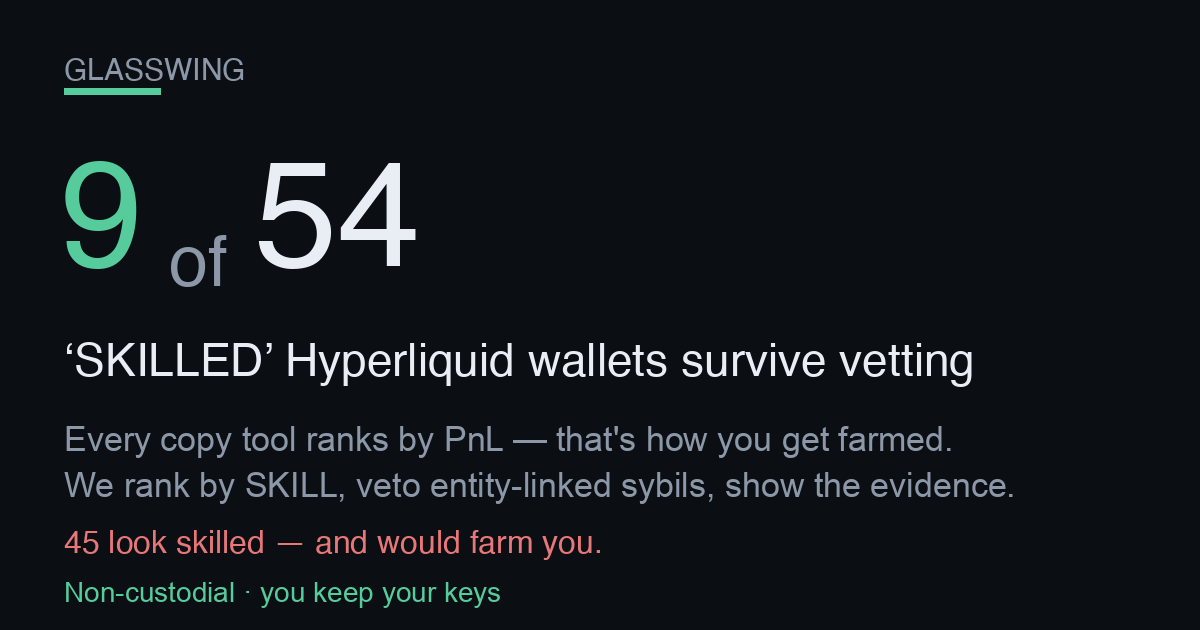
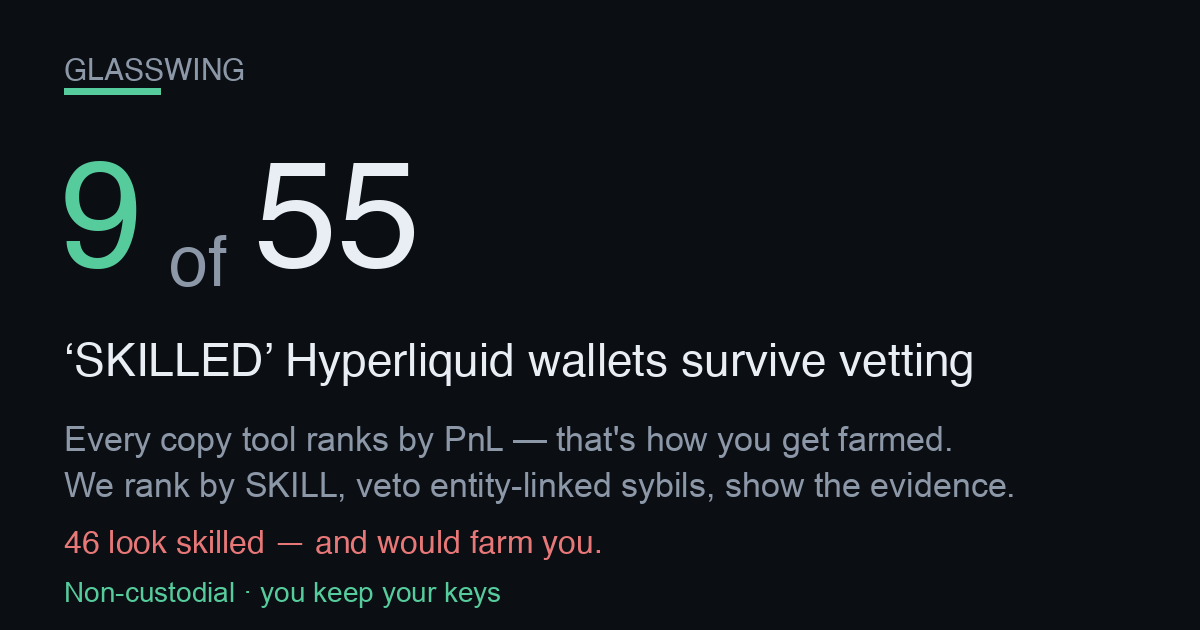
publish funnel 2026-07-24T05:23:07Z

Changed region(s): [[0.2775, 0.2413, 0.37, 0.4222], [0.0617, 0.8444, 0.0925, 0.8746]]

diff --git a/screener.html b/screener.html
@@ -57,4 +57,4 @@ padding:11px 22px;font-size:15px;font-weight:800;border:1px solid var(--good)}
 footer{margin-top:34px;color:var(--muted);font-size:12px;line-height:1.6;
 border-top:1px solid var(--line);padding-top:16px}
 footer b{color:var(--ink)}
-</style></head><body><div class="wrap"><div class="nav"><a href="./index.html">&larr; Glasswing home</a><span class="sep">|</span><span>Edge Screener</span><span class="sep">|</span><a href="./dex.html">Copy a vetted leader</a></div><div class="hero"><h1>Hyperliquid Edge Screener</h1><div class="sub">Where&rsquo;s the carry, where a maker earns, and what&rsquo;s moving on Hyperliquid &mdash; live, computed from the public API. Bookmark it. Every number below is real and timestamped.</div><div class="stamp">Data as of <b>2026-07-23T23:06:38Z</b> &middot; rendered 2026-07-23T23:06:38Z &middot; 177 perps &middot; 88 HIP-3 (xyz) markets scanned</div></div><h2>Top funding &mdash; the carry table <span class="hint">perps ranked by annualized funding. Positive = longs pay shorts (a delta-neutral short earns it).</span></h2><div class="tblwrap"><table><thead><tr><th>Coin</th><th>Funding / hr</th><th>Annualized</th><th>Who pays</th><th>Open interest</th><th>24h volume</th></tr></thead><tbody><tr><td class="coin">CASHCAT</td><td>+0.0264%</td><td class="pos">+231.2%</td><td><span class="tag longs">longs pay</span></td><td>$9.5M</td><td>$14.7M</td></tr><tr><td class="coin">VINE<span class="tag thin" title="Low liquidity/OI &mdash; ADL &amp; liquidation risk; funding can flip">&#9888; thin</span></td><td>+0.0209%</td><td class="pos">+183.4%</td><td><span class="tag longs">longs pay</span></td><td>$347K</td><td>$226K</td></tr><tr><td class="coin">ACE<span class="tag thin" title="Low liquidity/OI &mdash; ADL &amp; liquidation risk; funding can flip">&#9888; thin</span></td><td>-0.0173%</td><td class="neg">-151.4%</td><td><span class="tag shorts">shorts pay</span></td><td>$376K</td><td>$622K</td></tr><tr><td class="coin">NXPC<span class="tag thin" title="Low liquidity/OI &mdash; ADL &amp; liquidation risk; funding can flip">&#9888; thin</span></td><td>-0.0143%</td><td class="neg">-125.7%</td><td><span class="tag shorts">shorts pay</span></td><td>$477K</td><td>$165K</td></tr><tr><td class="coin">AIXBT<span class="tag thin" title="Low liquidity/OI &mdash; ADL &amp; liquidation risk; funding can flip">&#9888; thin</span></td><td>-0.0127%</td><td class="neg">-111.7%</td><td><span class="tag shorts">shorts pay</span></td><td>$434K</td><td>$206K</td></tr><tr><td class="coin">SKR<span class="tag thin" title="Low liquidity/OI &mdash; ADL &amp; liquidation risk; funding can flip">&#9888; thin</span></td><td>-0.0126%</td><td class="neg">-110.6%</td><td><span class="tag shorts">shorts pay</span></td><td>$173K</td><td>$180K</td></tr><tr><td class="coin">kNEIRO<span class="tag thin" title="Low liquidity/OI &mdash; ADL &amp; liquidation risk; funding can flip">&#9888; thin</span></td><td>-0.0105%</td><td class="neg">-92.3%</td><td><span class="tag shorts">shorts pay</span></td><td>$194K</td><td>$121K</td></tr><tr><td class="coin">AVNT<span class="tag thin" title="Low liquidity/OI &mdash; ADL &amp; liquidation risk; funding can flip">&#9888; thin</span></td><td>-0.0097%</td><td class="neg">-84.5%</td><td><span class="tag shorts">shorts pay</span></td><td>$635K</td><td>$186K</td></tr><tr><td class="coin">ZETA<span class="tag thin" title="Low liquidity/OI &mdash; ADL &amp; liquidation risk; funding can flip">&#9888; thin</span></td><td>-0.0094%</td><td class="neg">-82.0%</td><td><span class="tag shorts">shorts pay</span></td><td>$693K</td><td>$137K</td></tr><tr><td class="coin">MORPHO</td><td>-0.0088%</td><td class="neg">-77.3%</td><td><span class="tag shorts">shorts pay</span></td><td>$4.1M</td><td>$1.4M</td></tr><tr><td class="coin">kBONK</td><td>-0.0086%</td><td class="neg">-75.4%</td><td><span class="tag shorts">shorts pay</span></td><td>$6.3M</td><td>$3.2M</td></tr><tr><td class="coin">HEMI</td><td>-0.0082%</td><td class="neg">-71.8%</td><td><span class="tag shorts">shorts pay</span></td><td>$958K</td><td>$662K</td></tr></tbody></table></div><h2>Widest HIP-3 spreads &mdash; where a maker earns <span class="hint">xyz: markets by impact-price spread vs the ~0.6bps round-trip fee. A resting limit order captures the gap.</span></h2><div class="tblwrap"><table><thead><tr><th>Market</th><th>Spread</th><th>vs 0.6bps fee</th><th>Mid</th><th>24h volume</th></tr></thead><tbody><tr><td class="coin">xyz:GIGADEV<span class="tag gm">growth</span></td><td>414.2 bps</td><td class="pos">+413.6 bps</td><td>66.2515</td><td>$82K</td></tr><tr><td class="coin">xyz:BIRD<span class="tag gm">growth</span></td><td>244.6 bps</td><td class="pos">+244.0 bps</td><td>2.6338</td><td>$103K</td></tr><tr><td class="coin">xyz:SOFTBANK<span class="tag gm">growth</span></td><td>148.9 bps</td><td class="pos">+148.3 bps</td><td>35.1450</td><td>$486K</td></tr><tr><td class="coin">xyz:SHAZ<span class="tag gm">growth</span></td><td>130.4 bps</td><td class="pos">+129.8 bps</td><td>69.7830</td><td>$1.2M</td></tr><tr><td class="coin">xyz:KIOXIA<span class="tag gm">growth</span></td><td>76.3 bps</td><td class="pos">+75.7 bps</td><td>383.9950</td><td>$2.8M</td></tr><tr><td class="coin">xyz:MINIMAX<span class="tag gm">growth</span></td><td>63.7 bps</td><td class="pos">+63.1 bps</td><td>24.7310</td><td>$2.1M</td></tr><tr><td class="coin">xyz:URNM<span class="tag gm">growth</span></td><td>60.5 bps</td><td class="pos">+59.9 bps</td><td>51.2760</td><td>$116K</td></tr><tr><td class="coin">xyz:PURRDAT</td><td>45.7 bps</td><td class="pos">+45.1 bps</td><td>6.4643</td><td>$2.7M</td></tr><tr><td class="coin">xyz:CXMT<span class="tag gm">growth</span></td><td>41.5 bps</td><td class="pos">+40.9 bps</td><td>6.3784</td><td>$11.1M</td></tr><tr><td class="coin">xyz:BOT<span class="tag gm">growth</span></td><td>33.1 bps</td><td class="pos">+32.5 bps</td><td>25.8950</td><td>$1.2M</td></tr><tr><td class="coin">xyz:KR200<span class="tag gm">growth</span></td><td>33.1 bps</td><td class="pos">+32.5 bps</td><td>1,110.00</td><td>$494K</td></tr><tr><td class="coin">xyz:HIMS<span class="tag gm">growth</span></td><td>31.4 bps</td><td class="pos">+30.8 bps</td><td>32.9155</td><td>$6.9M</td></tr></tbody></table></div><h2>Momentum &amp; volume &mdash; what&rsquo;s moving <span class="hint">perps by 24h volume with the 24h price change (mark vs prior-day).</span></h2><div class="tblwrap"><table><thead><tr><th>Coin</th><th>24h volume</th><th>24h change</th><th>Mark</th></tr></thead><tbody><tr><td class="coin">BTC</td><td>$1.79B</td><td class="neg">-1.07%</td><td>65,166.00</td></tr><tr><td class="coin">ETH</td><td>$876.2M</td><td class="neg">-2.22%</td><td>1,882.10</td></tr><tr><td class="coin">HYPE</td><td>$270.6M</td><td class="neg">-2.14%</td><td>57.7450</td></tr><tr><td class="coin">SOL</td><td>$99.2M</td><td class="neg">-1.86%</td><td>76.1150</td></tr><tr><td class="coin">ZEC</td><td>$80.4M</td><td class="neg">-1.64%</td><td>502.7600</td></tr><tr><td class="coin">XRP</td><td>$27.9M</td><td class="neg">-2.36%</td><td>1.1100</td></tr><tr><td class="coin">PUMP</td><td>$16.9M</td><td class="neg">-3.73%</td><td>0.001834</td></tr><tr><td class="coin">CASHCAT</td><td>$14.7M</td><td class="neg">-12.73%</td><td>0.04486</td></tr><tr><td class="coin">DOGE</td><td>$13.6M</td><td class="neg">-4.32%</td><td>0.069408</td></tr><tr><td class="coin">WLFI</td><td>$12.0M</td><td class="pos">+2.69%</td><td>0.05764</td></tr><tr><td class="coin">ENA</td><td>$11.9M</td><td class="neg">-1.36%</td><td>0.088987</td></tr><tr><td class="coin">LIT</td><td>$11.6M</td><td class="neg">-5.37%</td><td>2.1620</td></tr></tbody></table></div><div class="cta"><h2>These are the opportunities. Now copy the people who trade them.</h2><p class="lead">Spotting the carry and the spreads is the easy part &mdash; sizing, timing and risk are where most traders bleed. Copy the <b>skill-vetted</b> Hyperliquid leaders who actually trade these edges. Non-custodial: <b>you keep your keys and your funds</b> the entire time.</p><div class="row"><a class="btn" href="./index.html">See the vetted leaders &rarr;</a><a class="btn ghost" href="./dex.html">Start copying (non-custodial) &rarr;</a></div><div class="nc"><b>Non-custodial &amp; honest:</b> we never hold your keys or funds. Copying routes through a <b>0.01%</b> (1bp) on-chain builder fee &mdash; that is the only thing we ever charge, and it is the same fee shown on the copy page. Nothing on this screener is executed for you; it is information only.</div></div><footer><b>Not financial advice.</b> Funding rates, spreads and volumes are live snapshots that change every block; figures can be stale by the time you act. A high funding rate is <b>not free money</b> &mdash; the biggest rates sit on the thinnest, most crowded books (flagged &#9888; thin), where funding can flip against you and auto-deleveraging (ADL) or liquidation can close your position. &ldquo;Spread&rdquo; here is the impact-price spread (a conservative maker signal), not a guaranteed fill. HIP-3 markets are experimental. Do your own research and size responsibly. Glasswing is <b>non-custodial</b> &mdash; we never take custody of your keys or funds.</footer></div></body></html>
+</style></head><body><div class="wrap"><div class="nav"><a href="./index.html">&larr; Glasswing home</a><span class="sep">|</span><span>Edge Screener</span><span class="sep">|</span><a href="./dex.html">Copy a vetted leader</a></div><div class="hero"><h1>Hyperliquid Edge Screener</h1><div class="sub">Where&rsquo;s the carry, where a maker earns, and what&rsquo;s moving on Hyperliquid &mdash; live, computed from the public API. Bookmark it. Every number below is real and timestamped.</div><div class="stamp">Data as of <b>2026-07-24T05:18:20Z</b> &middot; rendered 2026-07-24T05:18:20Z &middot; 177 perps &middot; 88 HIP-3 (xyz) markets scanned</div></div><h2>Top funding &mdash; the carry table <span class="hint">perps ranked by annualized funding. Positive = longs pay shorts (a delta-neutral short earns it).</span></h2><div class="tblwrap"><table><thead><tr><th>Coin</th><th>Funding / hr</th><th>Annualized</th><th>Who pays</th><th>Open interest</th><th>24h volume</th></tr></thead><tbody><tr><td class="coin">STX<span class="tag thin" title="Low liquidity/OI &mdash; ADL &amp; liquidation risk; funding can flip">&#9888; thin</span></td><td>-0.0403%</td><td class="neg">-352.6%</td><td><span class="tag shorts">shorts pay</span></td><td>$388K</td><td>$628K</td></tr><tr><td class="coin">VINE<span class="tag thin" title="Low liquidity/OI &mdash; ADL &amp; liquidation risk; funding can flip">&#9888; thin</span></td><td>+0.0146%</td><td class="pos">+128.3%</td><td><span class="tag longs">longs pay</span></td><td>$400K</td><td>$501K</td></tr><tr><td class="coin">NOT<span class="tag thin" title="Low liquidity/OI &mdash; ADL &amp; liquidation risk; funding can flip">&#9888; thin</span></td><td>-0.0123%</td><td class="neg">-107.5%</td><td><span class="tag shorts">shorts pay</span></td><td>$207K</td><td>$66K</td></tr><tr><td class="coin">RSR<span class="tag thin" title="Low liquidity/OI &mdash; ADL &amp; liquidation risk; funding can flip">&#9888; thin</span></td><td>-0.0120%</td><td class="neg">-104.7%</td><td><span class="tag shorts">shorts pay</span></td><td>$223K</td><td>$3.9M</td></tr><tr><td class="coin">CASHCAT</td><td>+0.0105%</td><td class="pos">+92.2%</td><td><span class="tag longs">longs pay</span></td><td>$11.1M</td><td>$14.7M</td></tr><tr><td class="coin">DASH</td><td>-0.0092%</td><td class="neg">-80.4%</td><td><span class="tag shorts">shorts pay</span></td><td>$771K</td><td>$459K</td></tr><tr><td class="coin">NXPC<span class="tag thin" title="Low liquidity/OI &mdash; ADL &amp; liquidation risk; funding can flip">&#9888; thin</span></td><td>-0.0091%</td><td class="neg">-79.8%</td><td><span class="tag shorts">shorts pay</span></td><td>$459K</td><td>$159K</td></tr><tr><td class="coin">ZRO</td><td>+0.0077%</td><td class="pos">+67.2%</td><td><span class="tag longs">longs pay</span></td><td>$26.5M</td><td>$1.9M</td></tr><tr><td class="coin">kNEIRO<span class="tag thin" title="Low liquidity/OI &mdash; ADL &amp; liquidation risk; funding can flip">&#9888; thin</span></td><td>-0.0076%</td><td class="neg">-66.9%</td><td><span class="tag shorts">shorts pay</span></td><td>$197K</td><td>$144K</td></tr><tr><td class="coin">AVNT<span class="tag thin" title="Low liquidity/OI &mdash; ADL &amp; liquidation risk; funding can flip">&#9888; thin</span></td><td>-0.0072%</td><td class="neg">-62.6%</td><td><span class="tag shorts">shorts pay</span></td><td>$639K</td><td>$186K</td></tr><tr><td class="coin">SAND<span class="tag thin" title="Low liquidity/OI &mdash; ADL &amp; liquidation risk; funding can flip">&#9888; thin</span></td><td>-0.0070%</td><td class="neg">-61.3%</td><td><span class="tag shorts">shorts pay</span></td><td>$285K</td><td>$112K</td></tr><tr><td class="coin">TURBO<span class="tag thin" title="Low liquidity/OI &mdash; ADL &amp; liquidation risk; funding can flip">&#9888; thin</span></td><td>-0.0066%</td><td class="neg">-57.6%</td><td><span class="tag shorts">shorts pay</span></td><td>$227K</td><td>$93K</td></tr></tbody></table></div><h2>Widest HIP-3 spreads &mdash; where a maker earns <span class="hint">xyz: markets by impact-price spread vs the ~0.6bps round-trip fee. A resting limit order captures the gap.</span></h2><div class="tblwrap"><table><thead><tr><th>Market</th><th>Spread</th><th>vs 0.6bps fee</th><th>Mid</th><th>24h volume</th></tr></thead><tbody><tr><td class="coin">xyz:BIRD<span class="tag gm">growth</span></td><td>291.0 bps</td><td class="pos">+290.4 bps</td><td>2.6048</td><td>$108K</td></tr><tr><td class="coin">xyz:GIGADEV<span class="tag gm">growth</span></td><td>236.5 bps</td><td class="pos">+235.9 bps</td><td>67.6215</td><td>$51K</td></tr><tr><td class="coin">xyz:SHAZ<span class="tag gm">growth</span></td><td>148.0 bps</td><td class="pos">+147.4 bps</td><td>69.1055</td><td>$1.3M</td></tr><tr><td class="coin">xyz:BOT<span class="tag gm">growth</span></td><td>101.7 bps</td><td class="pos">+101.1 bps</td><td>25.6730</td><td>$1.1M</td></tr><tr><td class="coin">xyz:URNM<span class="tag gm">growth</span></td><td>76.2 bps</td><td class="pos">+75.6 bps</td><td>51.2345</td><td>$105K</td></tr><tr><td class="coin">xyz:PURRDAT</td><td>60.1 bps</td><td class="pos">+59.5 bps</td><td>6.5335</td><td>$2.6M</td></tr><tr><td class="coin">xyz:KR200<span class="tag gm">growth</span></td><td>58.1 bps</td><td class="pos">+57.5 bps</td><td>1,077.80</td><td>$624K</td></tr><tr><td class="coin">xyz:EBAY<span class="tag gm">growth</span></td><td>49.3 bps</td><td class="pos">+48.7 bps</td><td>109.8700</td><td>$597K</td></tr><tr><td class="coin">xyz:EWZ<span class="tag gm">growth</span></td><td>40.4 bps</td><td class="pos">+39.8 bps</td><td>36.0565</td><td>$218K</td></tr><tr><td class="coin">xyz:KIOXIA<span class="tag gm">growth</span></td><td>38.4 bps</td><td class="pos">+37.8 bps</td><td>343.5000</td><td>$4.1M</td></tr><tr><td class="coin">xyz:MINIMAX<span class="tag gm">growth</span></td><td>34.5 bps</td><td class="pos">+33.9 bps</td><td>24.7885</td><td>$1.2M</td></tr><tr><td class="coin">xyz:STRC</td><td>23.1 bps</td><td class="pos">+22.5 bps</td><td>85.2770</td><td>$1.1M</td></tr></tbody></table></div><h2>Momentum &amp; volume &mdash; what&rsquo;s moving <span class="hint">perps by 24h volume with the 24h price change (mark vs prior-day).</span></h2><div class="tblwrap"><table><thead><tr><th>Coin</th><th>24h volume</th><th>24h change</th><th>Mark</th></tr></thead><tbody><tr><td class="coin">BTC</td><td>$1.75B</td><td class="neg">-0.41%</td><td>65,340.00</td></tr><tr><td class="coin">ETH</td><td>$833.7M</td><td class="neg">-2.02%</td><td>1,880.30</td></tr><tr><td class="coin">HYPE</td><td>$284.3M</td><td class="neg">-1.16%</td><td>58.4500</td></tr><tr><td class="coin">SOL</td><td>$101.2M</td><td class="neg">-2.18%</td><td>75.7650</td></tr><tr><td class="coin">ZEC</td><td>$68.2M</td><td class="neg">-0.64%</td><td>509.5500</td></tr><tr><td class="coin">XRP</td><td>$26.8M</td><td class="neg">-2.30%</td><td>1.1084</td></tr><tr><td class="coin">PUMP</td><td>$18.4M</td><td class="neg">-5.33%</td><td>0.001812</td></tr><tr><td class="coin">CASHCAT</td><td>$14.7M</td><td class="pos">+7.86%</td><td>0.05336</td></tr><tr><td class="coin">DOGE</td><td>$14.1M</td><td class="neg">-4.54%</td><td>0.06915</td></tr><tr><td class="coin">LIT</td><td>$13.0M</td><td class="neg">-7.48%</td><td>2.1246</td></tr><tr><td class="coin">ENA</td><td>$11.7M</td><td class="neg">-1.87%</td><td>0.089658</td></tr><tr><td class="coin">WLFI</td><td>$10.9M</td><td class="pos">+0.48%</td><td>0.056355</td></tr></tbody></table></div><div class="cta"><h2>These are the opportunities. Now copy the people who trade them.</h2><p class="lead">Spotting the carry and the spreads is the easy part &mdash; sizing, timing and risk are where most traders bleed. Copy the <b>skill-vetted</b> Hyperliquid leaders who actually trade these edges. Non-custodial: <b>you keep your keys and your funds</b> the entire time.</p><div class="row"><a class="btn" href="./index.html">See the vetted leaders &rarr;</a><a class="btn ghost" href="./dex.html">Start copying (non-custodial) &rarr;</a></div><div class="nc"><b>Non-custodial &amp; honest:</b> we never hold your keys or funds. Copying routes through a <b>0.01%</b> (1bp) on-chain builder fee &mdash; that is the only thing we ever charge, and it is the same fee shown on the copy page. Nothing on this screener is executed for you; it is information only.</div></div><footer><b>Not financial advice.</b> Funding rates, spreads and volumes are live snapshots that change every block; figures can be stale by the time you act. A high funding rate is <b>not free money</b> &mdash; the biggest rates sit on the thinnest, most crowded books (flagged &#9888; thin), where funding can flip against you and auto-deleveraging (ADL) or liquidation can close your position. &ldquo;Spread&rdquo; here is the impact-price spread (a conservative maker signal), not a guaranteed fill. HIP-3 markets are experimental. Do your own research and size responsibly. Glasswing is <b>non-custodial</b> &mdash; we never take custody of your keys or funds.</footer></div></body></html>

diff --git a/track.html b/track.html
@@ -62,7 +62,7 @@ font-weight:600;font-size:14px}
 <div class="wrap">
   <div class="hero">
     <h1>Self-verifying on-chain track record</h1>
-    <div class="big">$284.05</div>
+    <div class="big">$282.05</div>
     <div class="sub">current on-chain equity (perp + vault + spot USDC)</div>
     <div class="addr">0xbe6C1b09662BbE52CC93279D103Feb27985DdBc1</div>
     <div class="stage early">5 days live — EARLY / NOT YET A MATURE RECORD</div>
@@ -72,25 +72,25 @@ font-weight:600;font-size:14px}
 
   <h2>On-chain figures <span style="color:var(--muted);font-weight:400;font-size:13px">
   &mdash; every one reproducible from the public info API</span></h2>
-  <table><tbody><tr><td class="k">On-chain equity (perp + vault + spot USDC)</td><td class="v">$284.05</td></tr><tr><td class="k">Perp account value</td><td class="v">$217.95</td></tr><tr><td class="k">Vault equity</td><td class="v">$50.02</td></tr><tr><td class="k">Spot USDC</td><td class="v">$16.09</td></tr><tr><td class="k">Withdrawable</td><td class="v">$61.24</td></tr></tbody></table>
+  <table><tbody><tr><td class="k">On-chain equity (perp + vault + spot USDC)</td><td class="v">$282.05</td></tr><tr><td class="k">Perp account value</td><td class="v">$215.91</td></tr><tr><td class="k">Vault equity</td><td class="v">$50.05</td></tr><tr><td class="k">Spot USDC</td><td class="v">$16.09</td></tr><tr><td class="k">Withdrawable</td><td class="v">$58.12</td></tr></tbody></table>
 
-  <h2>Vault deposits (on-chain)</h2><table><thead><tr><th>Vault address</th><th>Our equity</th></tr></thead><tbody><tr><td class="mono">0x2431edfcb662e6ff6deab113cc91878a0b53fb0f</td><td class="v">$0.01</td></tr><tr><td class="mono">0x697bc3dd77539fa84156d0e1c95287ea5524fd6b</td><td class="v">$25.92</td></tr><tr><td class="mono">0x8825e6ed11c7f9c0874579c9f4bba192b9e81c8f</td><td class="v">$0.12</td></tr><tr><td class="mono">0xc71f5a493b937e4b1798b86510630336a6dfd804</td><td class="v">$23.97</td></tr></tbody></table>
+  <h2>Vault deposits (on-chain)</h2><table><thead><tr><th>Vault address</th><th>Our equity</th></tr></thead><tbody><tr><td class="mono">0x2431edfcb662e6ff6deab113cc91878a0b53fb0f</td><td class="v">$0.01</td></tr><tr><td class="mono">0x697bc3dd77539fa84156d0e1c95287ea5524fd6b</td><td class="v">$25.95</td></tr><tr><td class="mono">0x8825e6ed11c7f9c0874579c9f4bba192b9e81c8f</td><td class="v">$0.12</td></tr><tr><td class="mono">0xc71f5a493b937e4b1798b86510630336a6dfd804</td><td class="v">$23.98</td></tr></tbody></table>
 
   <h2>Performance <span style="color:var(--muted);font-weight:400;font-size:13px">
   &mdash; honest stage, no annualization</span></h2>
-  <table><tbody><tr><td class="k">Days live (our formal record)</td><td class="v">5</td></tr><tr><td class="k">Maturity</td><td class="v">EARLY / NOT YET A MATURE RECORD</td></tr><tr><td class="k">Current real strategy income / day</td><td class="v">$0.0595</td></tr><tr><td class="k">Cumulative net income (if attributed)</td><td class="v">$0.3235</td></tr><tr><td class="k">Annualized APR</td><td class="v">intentionally NOT computed (record too young)</td></tr></tbody></table>
+  <table><tbody><tr><td class="k">Days live (our formal record)</td><td class="v">5</td></tr><tr><td class="k">Maturity</td><td class="v">EARLY / NOT YET A MATURE RECORD</td></tr><tr><td class="k">Current real strategy income / day</td><td class="v">$0.0605</td></tr><tr><td class="k">Cumulative net income (if attributed)</td><td class="v">$0.3403</td></tr><tr><td class="k">Annualized APR</td><td class="v">intentionally NOT computed (record too young)</td></tr></tbody></table>
 
   <h2>Strategy arms <span style="color:var(--muted);font-weight:400;font-size:13px">
   &mdash; internal marks, cross-checkable against chain equity</span></h2>
-  <table><thead><tr><th>Arm</th><th>Status</th><th>Real / day</th><th>Note</th></tr></thead><tbody><tr><td class="v">carry</td><td><span class="badge live">live</span></td><td class="v">$0.0595</td><td class="k"></td></tr><tr><td class="v">copy</td><td><span class="badge live">live</span></td><td class="v">$0.0000</td><td class="k"></td></tr><tr><td class="v">builder</td><td><span class="badge off">—</span></td><td class="v">$0.0000</td><td class="k">proven live; $0 until distributed (∝ users&#x27; volume)</td></tr></tbody></table>
+  <table><thead><tr><th>Arm</th><th>Status</th><th>Real / day</th><th>Note</th></tr></thead><tbody><tr><td class="v">carry</td><td><span class="badge live">live</span></td><td class="v">$0.0605</td><td class="k"></td></tr><tr><td class="v">copy</td><td><span class="badge live">live</span></td><td class="v">$0.0000</td><td class="k"></td></tr><tr><td class="v">builder</td><td><span class="badge off">—</span></td><td class="v">$0.0000</td><td class="k">proven live; $0 until distributed (∝ users&#x27; volume)</td></tr></tbody></table>
 
   <h2>Reproduce it</h2>
   <div class="verify"><h3>Verify this yourself</h3><p>These are PUBLIC calls. Run them yourself against the address below and you will re-derive every on-chain figure on this page. equity_usd = perp accountValue + vault equity + spot USDC. Endpoint: https://api.hyperliquid.xyz/info</p><div class="cn">clearinghouseState &rarr; marginSummary.accountValue (perp value), withdrawable, marginSummary.totalMarginUsed</div><pre>curl -s -X POST https://api.hyperliquid.xyz/info -H &#x27;Content-Type: application/json&#x27; -d &#x27;{&quot;type&quot;: &quot;clearinghouseState&quot;, &quot;user&quot;: &quot;0xbe6C1b09662BbE52CC93279D103Feb27985DdBc1&quot;}&#x27;</pre><div class="cn">userVaultEquities &rarr; sum of each entry&#x27;s equity (our vault deposits)</div><pre>curl -s -X POST https://api.hyperliquid.xyz/info -H &#x27;Content-Type: application/json&#x27; -d &#x27;{&quot;type&quot;: &quot;userVaultEquities&quot;, &quot;user&quot;: &quot;0xbe6C1b09662BbE52CC93279D103Feb27985DdBc1&quot;}&#x27;</pre><div class="cn">spotClearinghouseState &rarr; balances[] where coin==USDC -&gt; total (spot USDC)</div><pre>curl -s -X POST https://api.hyperliquid.xyz/info -H &#x27;Content-Type: application/json&#x27; -d &#x27;{&quot;type&quot;: &quot;spotClearinghouseState&quot;, &quot;user&quot;: &quot;0xbe6C1b09662BbE52CC93279D103Feb27985DdBc1&quot;}&#x27;</pre></div>
 
   <footer>
     <div>Self-verifying: every on-chain figure is reproducible by querying Hyperliquid&#x27;s public info API for the stated address. Internal daily marks are cross-checkable against on-chain equity. EARLY-STAGE record — not a mature track record, not an APR promise, not financial advice. Past performance != future results.</div>
-    <div class="stamp">Generated at 2026-07-23T23:01:13Z &middot; internal marks
-    mtime 2026-07-23T22:48:58Z &middot; static receipt, no live
+    <div class="stamp">Generated at 2026-07-24T05:16:23Z &middot; internal marks
+    mtime 2026-07-24T04:49:09Z &middot; static receipt, no live
     authority — this page never trades or arms.</div>
   </footer>
 </div>

diff --git a/index.html b/index.html
@@ -3,8 +3,8 @@
 <head>
 <meta charset="utf-8">
 <meta name="viewport" content="width=device-width, initial-scale=1">
-<title>9 of 54 SKILLED Hyperliquid wallets survive vetting</title>
-<meta name="description" content="9 of 54 leaderboard-SKILLED Hyperliquid wallets survive vetting. Copy only the survivors, non-custodial — you keep your keys and funds.">
+<title>9 of 55 SKILLED Hyperliquid wallets survive vetting</title>
+<meta name="description" content="9 of 55 leaderboard-SKILLED Hyperliquid wallets survive vetting. Copy only the survivors, non-custodial — you keep your keys and funds.">
 <link rel="canonical" href="https://dynobit.github.io/glasswing/">
 <meta name="robots" content="index,follow">
 <meta name="theme-color" content="#0b0e13">
@@ -14,14 +14,14 @@
      head, not this. og:url is the canonical Pages home so every share resolves here. -->
 <meta property="og:type" content="website">
 <meta property="og:site_name" content="Glasswing">
-<meta property="og:title" content="9 of 54 SKILLED Hyperliquid wallets survive vetting">
+<meta property="og:title" content="9 of 55 SKILLED Hyperliquid wallets survive vetting">
 <meta property="og:description" content="Every copy tool ranks leaders by PnL — which is how you get farmed. This ranks by SKILL, then vetoes entity-linked sybils, and shows the evidence for every reject. Non-custodial: you keep your keys.">
 <meta property="og:url" content="https://dynobit.github.io/glasswing/">
 <meta property="og:image" content="https://dynobit.github.io/glasswing/og-card.png">
 <meta property="og:image:width" content="1200">
 <meta property="og:image:height" content="630">
 <meta name="twitter:card" content="summary_large_image">
-<meta name="twitter:title" content="9 of 54 SKILLED Hyperliquid wallets survive vetting">
+<meta name="twitter:title" content="9 of 55 SKILLED Hyperliquid wallets survive vetting">
 <meta name="twitter:description" content="Skill-ranked (not PnL-ranked) HL copy-leaders, entity-linked sybils vetoed with evidence. Non-custodial.">
 <meta name="twitter:image" content="https://dynobit.github.io/glasswing/og-card.png">
 <style>
@@ -135,18 +135,18 @@ footer .nc{color:var(--good);font-weight:600}
 
   <!-- 1. HERO — the shareable hook (screenshot-worthy) -->
   <div class="hero">
-    <h1><span class="big">9 of 54</span> &lsquo;SKILLED&rsquo;
+    <h1><span class="big">9 of 55</span> &lsquo;SKILLED&rsquo;
     Hyperliquid wallets survive vetting</h1>
-    <div class="sub">The other <span class="trap">45</span> look skilled on a
+    <div class="sub">The other <span class="trap">46</span> look skilled on a
     raw copy leaderboard but would farm you &mdash; here are the
-    <span class="trap">45</span> that would. Entity-linked sybils,
-    wash-traded track records, or simply unscreened. 16.7% survive.
-    Universe: 419 scored wallets.</div>
+    <span class="trap">46</span> that would. Entity-linked sybils,
+    wash-traded track records, or simply unscreened. 16.4% survive.
+    Universe: 437 scored wallets.</div>
   </div>
 
   <!-- 2. THE WEDGE — the marketing (why us, not any other copy tool) -->
   <div class="wedge"><span class="them">Every other copy tool ranks all
-    54 by PnL and calls it a leaderboard.</span> We are the only one that
+    55 by PnL and calls it a leaderboard.</span> We are the only one that
     <b>flags the entity-linked and farming wallets with on-chain evidence</b> &mdash;
     transfer-graph linkage between wallets and arXiv memecoin farm-features &mdash;
     and shows you only the 9 that survive. A high PnL is exactly what a
@@ -268,7 +268,7 @@ footer .nc{color:var(--good);font-weight:600}
   <footer>
     <div class="nc">Non-custodial: we never hold your keys or funds. No server, no backend. Your browser talks only to Hyperliquid&#x27;s public API.</div>
     <div>Advisory. Skill = sign-randomization null vs luck. Entity veto = public transfer-graph linkage. Farm screen = arXiv:2601.08641 features (memecoin thresholds, HL-uncalibrated). Follower-realizable PnL is NOT yet proven — a PRE-COMMITTED forward test is in progress (0/2 windows, earliest 2026-08-13); the copyability claim publishes only when the pre-registered windows close, so it cannot be discovery-mined. Exit-alpha shown is advisory. Not financial advice.</div>
-    <div class="stamp">Generated at 2026-07-23T23:02:26Z &middot; single-file funnel,
+    <div class="stamp">Generated at 2026-07-24T05:17:00Z &middot; single-file funnel,
     no live authority. In-browser order signing is IMPLEMENTED (real secp256k1 +
     keccak + msgpack EIP-712 from a pinned CDN) but UNVALIDATED against Hyperliquid:
     mainnet is blocked until a testnet order is proven accepted.</div>

diff --git a/dex.html b/dex.html
@@ -112,8 +112,8 @@ footer .nc{color:var(--good);font-weight:600}
     funds and your keys the whole time. Two signatures in your own wallet, an
     ephemeral in-browser agent key that can trade but never withdraw, and a
     client-side loop that mirrors only the
-    <b>9 of 54</b> vetted survivors
-    (universe: 419 scored wallets). No server, no backend.</div>
+    <b>9 of 55</b> vetted survivors
+    (universe: 437 scored wallets). No server, no backend.</div>
     <div class="tag">static bundle &middot; IPFS-publishable &middot; revenue accrues on-chain</div>
   </div>
 
@@ -217,7 +217,7 @@ footer .nc{color:var(--good);font-weight:600}
   <footer>
     <div class="nc">Pure DEX, self-custodial. No server, no backend, no key we ever hold. Your browser talks only to Hyperliquid&#x27;s public API.</div>
     <div>Advisory. Skill = sign-randomization null vs luck. Entity veto = public transfer-graph linkage. Farm screen = arXiv:2601.08641 features (memecoin thresholds, HL-uncalibrated). Follower-realizable PnL is NOT yet proven — a PRE-COMMITTED forward test is in progress (0/2 windows, earliest 2026-08-13); the copyability claim publishes only when the pre-registered windows close, so it cannot be discovery-mined. Exit-alpha shown is advisory. Not financial advice.</div>
-    <div class="stamp">Generated at 2026-07-23T23:02:26Z &middot; static,
+    <div class="stamp">Generated at 2026-07-24T05:17:00Z &middot; static,
     self-custodial surface, no live authority. In-browser order signing is
     IMPLEMENTED (real secp256k1 + keccak + msgpack EIP-712 from a pinned CDN) but
     UNVALIDATED against Hyperliquid: mainnet is blocked until a testnet order is
